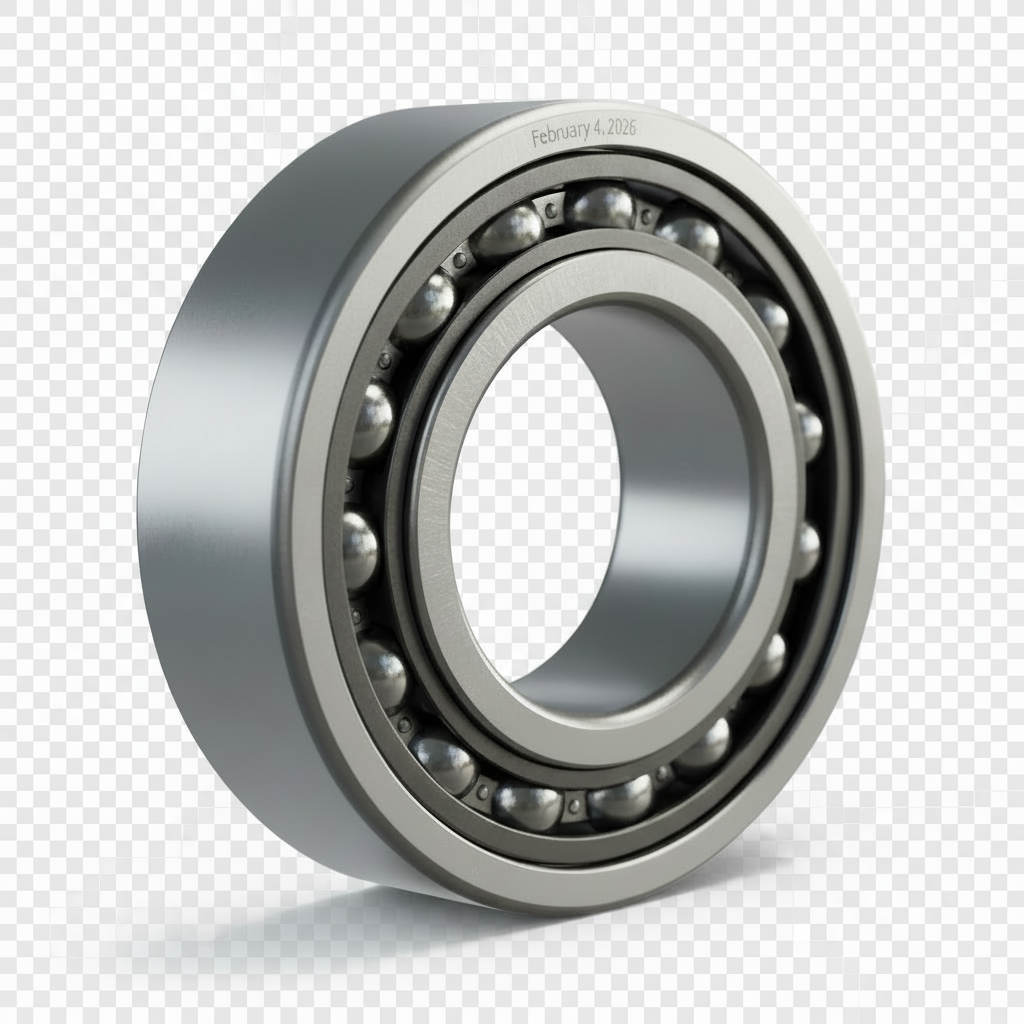
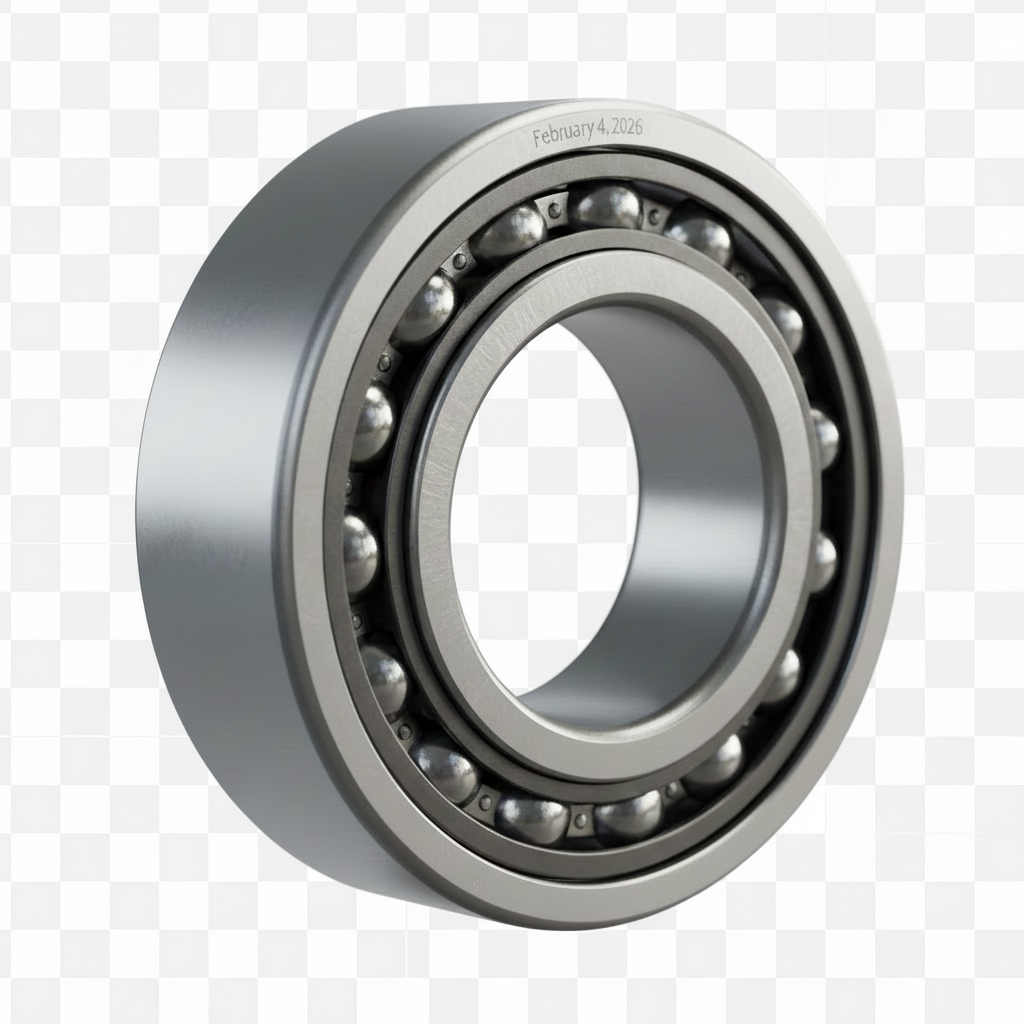
Changes

diff --git a/src/components/TransparentImage.tsx b/src/components/TransparentImage.tsx
@@ -1,0 +1,165 @@
+import { useEffect, useState } from "react";
+
+type Rgb = { r: number; g: number; b: number };
+
+const isExternalUrl = (url: string): boolean => {
+  if (url.startsWith("data:") || url.startsWith("blob:")) return false;
+  try {
+    return new URL(url, window.location.href).origin !== window.location.origin;
+  } catch {
+    return false;
+  }
+};
+
+const dist = (a: Rgb, b: Rgb) => {
+  const dr = a.r - b.r;
+  const dg = a.g - b.g;
+  const db = a.b - b.b;
+  return Math.sqrt(dr * dr + dg * dg + db * db);
+};
+
+const stats = (c: Rgb) => {
+  const max = Math.max(c.r, c.g, c.b);
+  const min = Math.min(c.r, c.g, c.b);
+  const sat = max - min; // simple saturation proxy
+  const br = (c.r + c.g + c.b) / 3;
+  return { sat, br };
+};
+
+const sampleCorners = (data: Uint8ClampedArray, w: number, h: number): Rgb[] => {
+  const get = (x: number, y: number): Rgb => {
+    const i = (y * w + x) * 4;
+    return { r: data[i], g: data[i + 1], b: data[i + 2] };
+  };
+
+  return [get(0, 0), get(w - 1, 0), get(0, h - 1), get(w - 1, h - 1)];
+};
+
+/**
+ * Removes a typical light-gray checkerboard background by flood-fill from corners.
+ * This avoids destroying highlights on the object because only edge-connected pixels are removed.
+ */
+const removeCheckerboardBackground = (
+  imageData: ImageData,
+  options?: { baseThreshold?: number; shadowThreshold?: number }
+): ImageData => {
+  const { data, width: w, height: h } = imageData;
+  const baseThreshold = options?.baseThreshold ?? 48;
+  const shadowThreshold = options?.shadowThreshold ?? 105;
+
+  const bgSamples = sampleCorners(data, w, h);
+  const visited = new Uint8Array(w * h);
+  const queue: number[] = [];
+
+  const push = (x: number, y: number) => {
+    if (x < 0 || y < 0 || x >= w || y >= h) return;
+    queue.push(y * w + x);
+  };
+
+  // Start from all corners (checkerboard can alternate colors)
+  push(0, 0);
+  push(w - 1, 0);
+  push(0, h - 1);
+  push(w - 1, h - 1);
+
+  const matchesBg = (c: Rgb) => {
+    // strict match to the corner colors
+    if (bgSamples.some((s) => dist(c, s) <= baseThreshold)) return true;
+
+    // allow removing soft neutral shadow that belongs to the background
+    const { sat, br } = stats(c);
+    if (sat <= 22 && br >= 150 && bgSamples.some((s) => dist(c, s) <= shadowThreshold)) {
+      return true;
+    }
+
+    return false;
+  };
+
+  while (queue.length) {
+    const idx = queue.pop()!;
+    if (visited[idx]) continue;
+    visited[idx] = 1;
+
+    const i = idx * 4;
+    const a = data[i + 3];
+    if (a === 0) continue;
+
+    const c: Rgb = { r: data[i], g: data[i + 1], b: data[i + 2] };
+    if (!matchesBg(c)) continue;
+
+    // Make transparent
+    data[i + 3] = 0;
+
+    const x = idx % w;
+    const y = (idx - x) / w;
+    push(x - 1, y);
+    push(x + 1, y);
+    push(x, y - 1);
+    push(x, y + 1);
+  }
+
+  return imageData;
+};
+
+type TransparentImageProps = Omit<
+  React.ImgHTMLAttributes<HTMLImageElement>,
+  "src"
+> & {
+  src: string;
+  /** Enable for images that may contain a baked-in checkerboard. */
+  removeCheckerboard?: boolean;
+};
+
+export default function TransparentImage({
+  src,
+  removeCheckerboard = true,
+  ...imgProps
+}: TransparentImageProps) {
+  const [processedSrc, setProcessedSrc] = useState<string | null>(null);
+
+  useEffect(() => {
+    let cancelled = false;
+    setProcessedSrc(null);
+
+    if (!removeCheckerboard) return;
+
+    const img = new Image();
+
+    // IMPORTANT: set crossOrigin BEFORE src for external images
+    if (isExternalUrl(src)) {
+      img.crossOrigin = "anonymous";
+    }
+
+    img.onload = () => {
+      try {
+        const canvas = document.createElement("canvas");
+        canvas.width = img.naturalWidth || img.width;
+        canvas.height = img.naturalHeight || img.height;
+        const ctx = canvas.getContext("2d");
+        if (!ctx) return;
+
+        ctx.drawImage(img, 0, 0);
+        const imageData = ctx.getImageData(0, 0, canvas.width, canvas.height);
+        const out = removeCheckerboardBackground(imageData);
+        ctx.putImageData(out, 0, 0);
+
+        const url = canvas.toDataURL("image/png");
+        if (!cancelled) setProcessedSrc(url);
+      } catch {
+        // If processing fails, silently fall back to original
+      }
+    };
+
+    img.onerror = () => {
+      // Fall back silently
+    };
+
+    img.src = src;
+
+    return () => {
+      cancelled = true;
+    };
+  }, [src, removeCheckerboard]);
+
+  return <img src={processedSrc ?? src} {...imgProps} />;
+}

diff --git a/src/components/Hero.tsx b/src/components/Hero.tsx
@@ -1,6 +1,7 @@
 import { motion } from "framer-motion";
 import { Phone, MapPin, Clock } from "lucide-react";
 import bearingHero from "@/assets/bearing-hero.png";
+import TransparentImage from "@/components/TransparentImage";
 
 const Hero = () => {
   return (
@@ -14,7 +15,7 @@ const Hero = () => {
             transition={{ duration: 0.5 }}
             className="hidden lg:flex justify-center"
           >
-            <img
+            <TransparentImage
               src={bearingHero}
               alt="Промышленный подшипник"
               className="w-full max-w-xs drop-shadow-xl"
